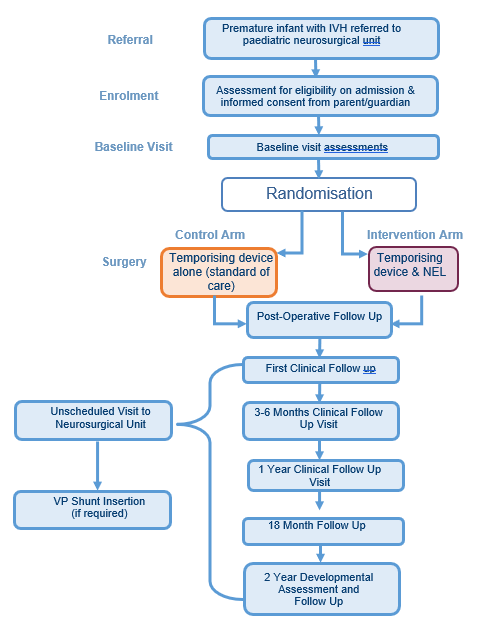
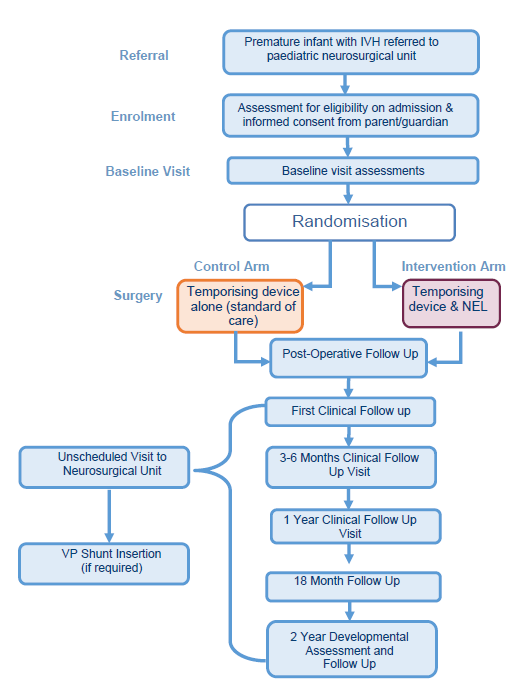
Update picture and visit summary

diff --git a/index.html b/index.html
@@ -163,7 +163,7 @@
 									<h3>Team and Collaborators</h3>
 									<div class="features">
 										<article>
-											<a href="https://www.gosh.nhs.uk/our-people/staff-z/kristian-aquilina/" target="_blank" class="image"><img src="images/ci.png" alt="A picture of the Chief Investigator, Mr Kristian Aquilina, facing the camera" /></a>
+											<a href="https://www.gosh.nhs.uk/our-people/staff-z/kristian-aquilina/" target="_blank" class="image"><img src="images/ci.jpg" alt="A picture of the Chief Investigator, Mr Kristian Aquilina, facing the camera" /></a>
 											<div class="inner">
 												<h4>Chief Investigator</h4>
 												<p><a href="https://www.gosh.nhs.uk/our-people/staff-z/kristian-aquilina/" target="_blank">Mr Kristian Aquilina</a> FRCS(SN) MD has been surgical lead for neuro-oncology at GOSH since 2012, and is an honorary senior lecturer at the UCL Institute of Child Health. Kristian graduated from the University of Malta in 1995 and completed his neurosurgical training in Bristol in 2009. He completed a one-year clinical fellowship in paediatric neurosurgery, and particularly in paediatric neuro-oncology, at St Jude Children's Research Hospital in Memphis, Tennessee. Kristian was appointed Consultant Neurosurgeon in Bristol in 2010, and Consultant Paediatric Neurosurgeon at GOSH in June 2012.<br>
@@ -378,7 +378,7 @@
   											         </li>
   											      </ol>
                             <h4>Study visit summary</h4>
-                            <img src="images/visit-summary.png" alt="Participant visit flow diagram" />
+														<span class="image"><img src="images/visit-summary.png" alt="Participant visit flow diagram" /></span>
   									</div>
   								</section>
 
